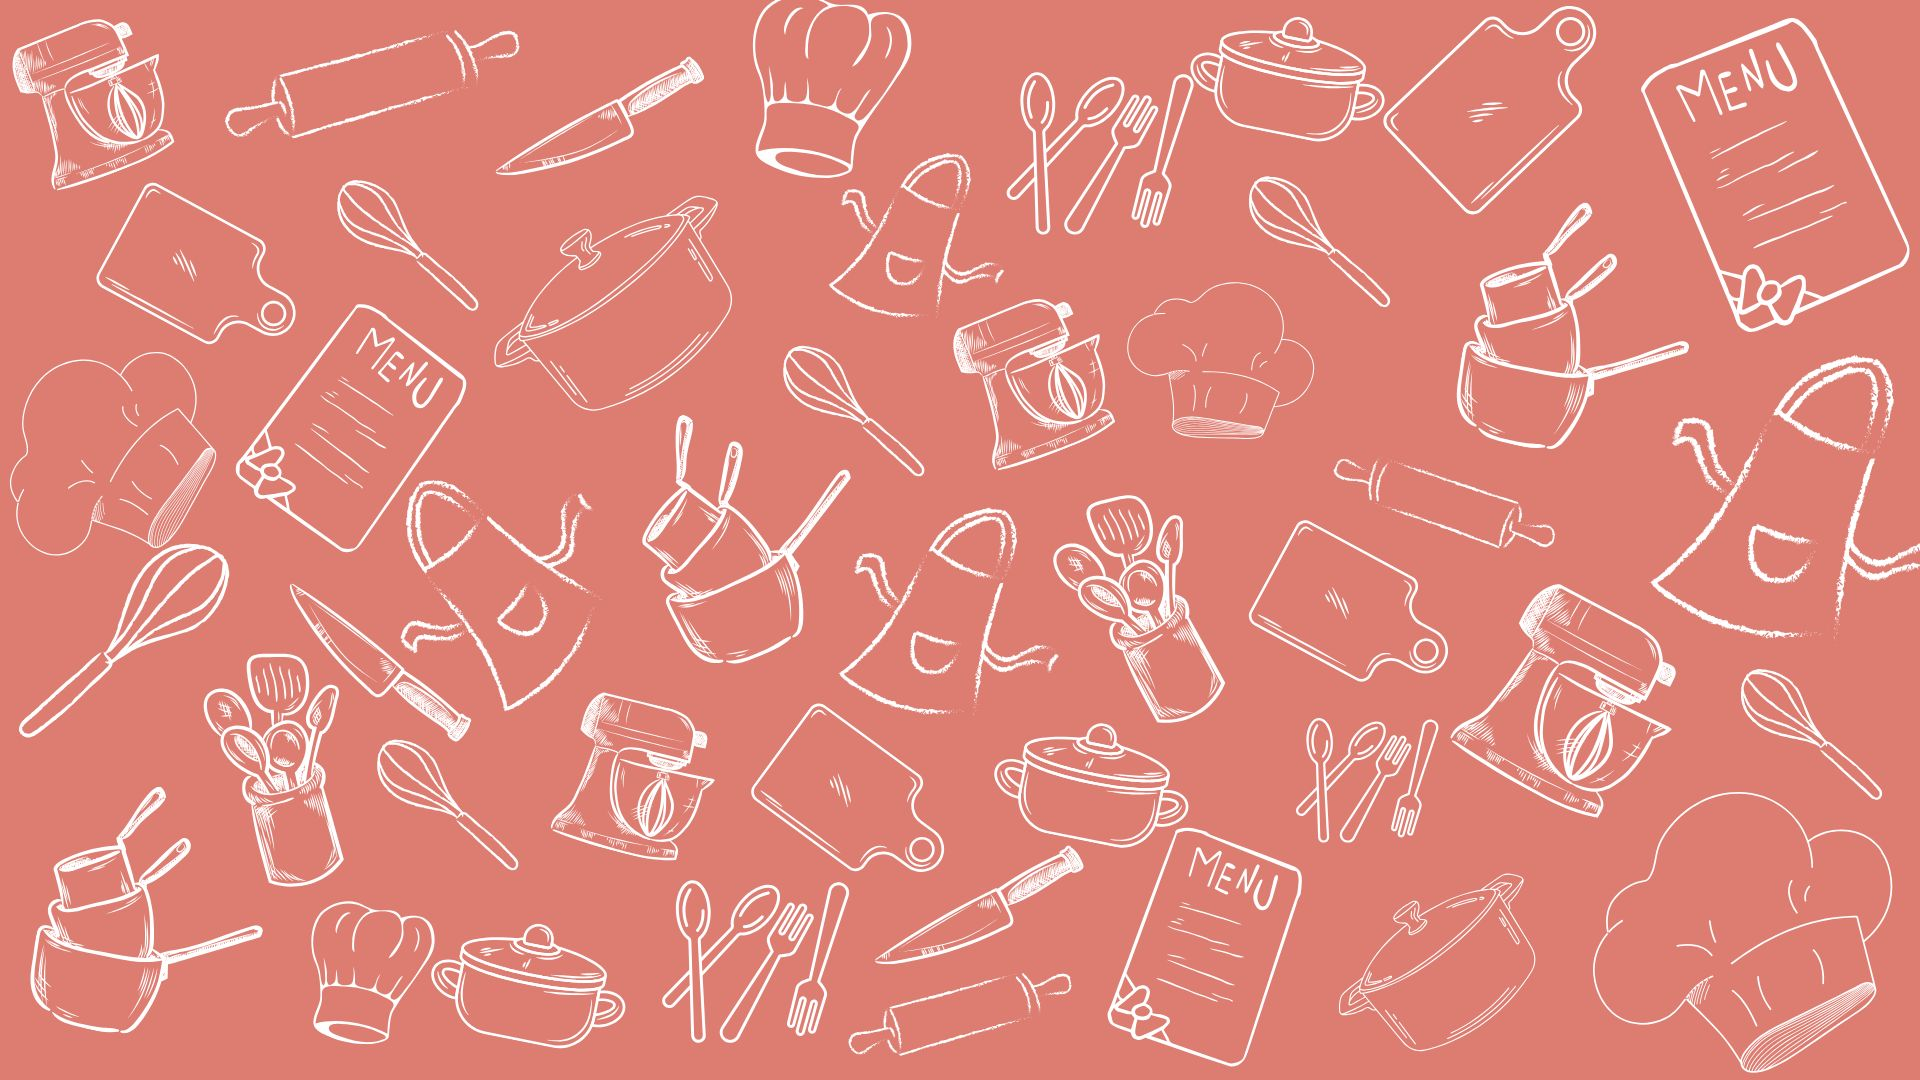
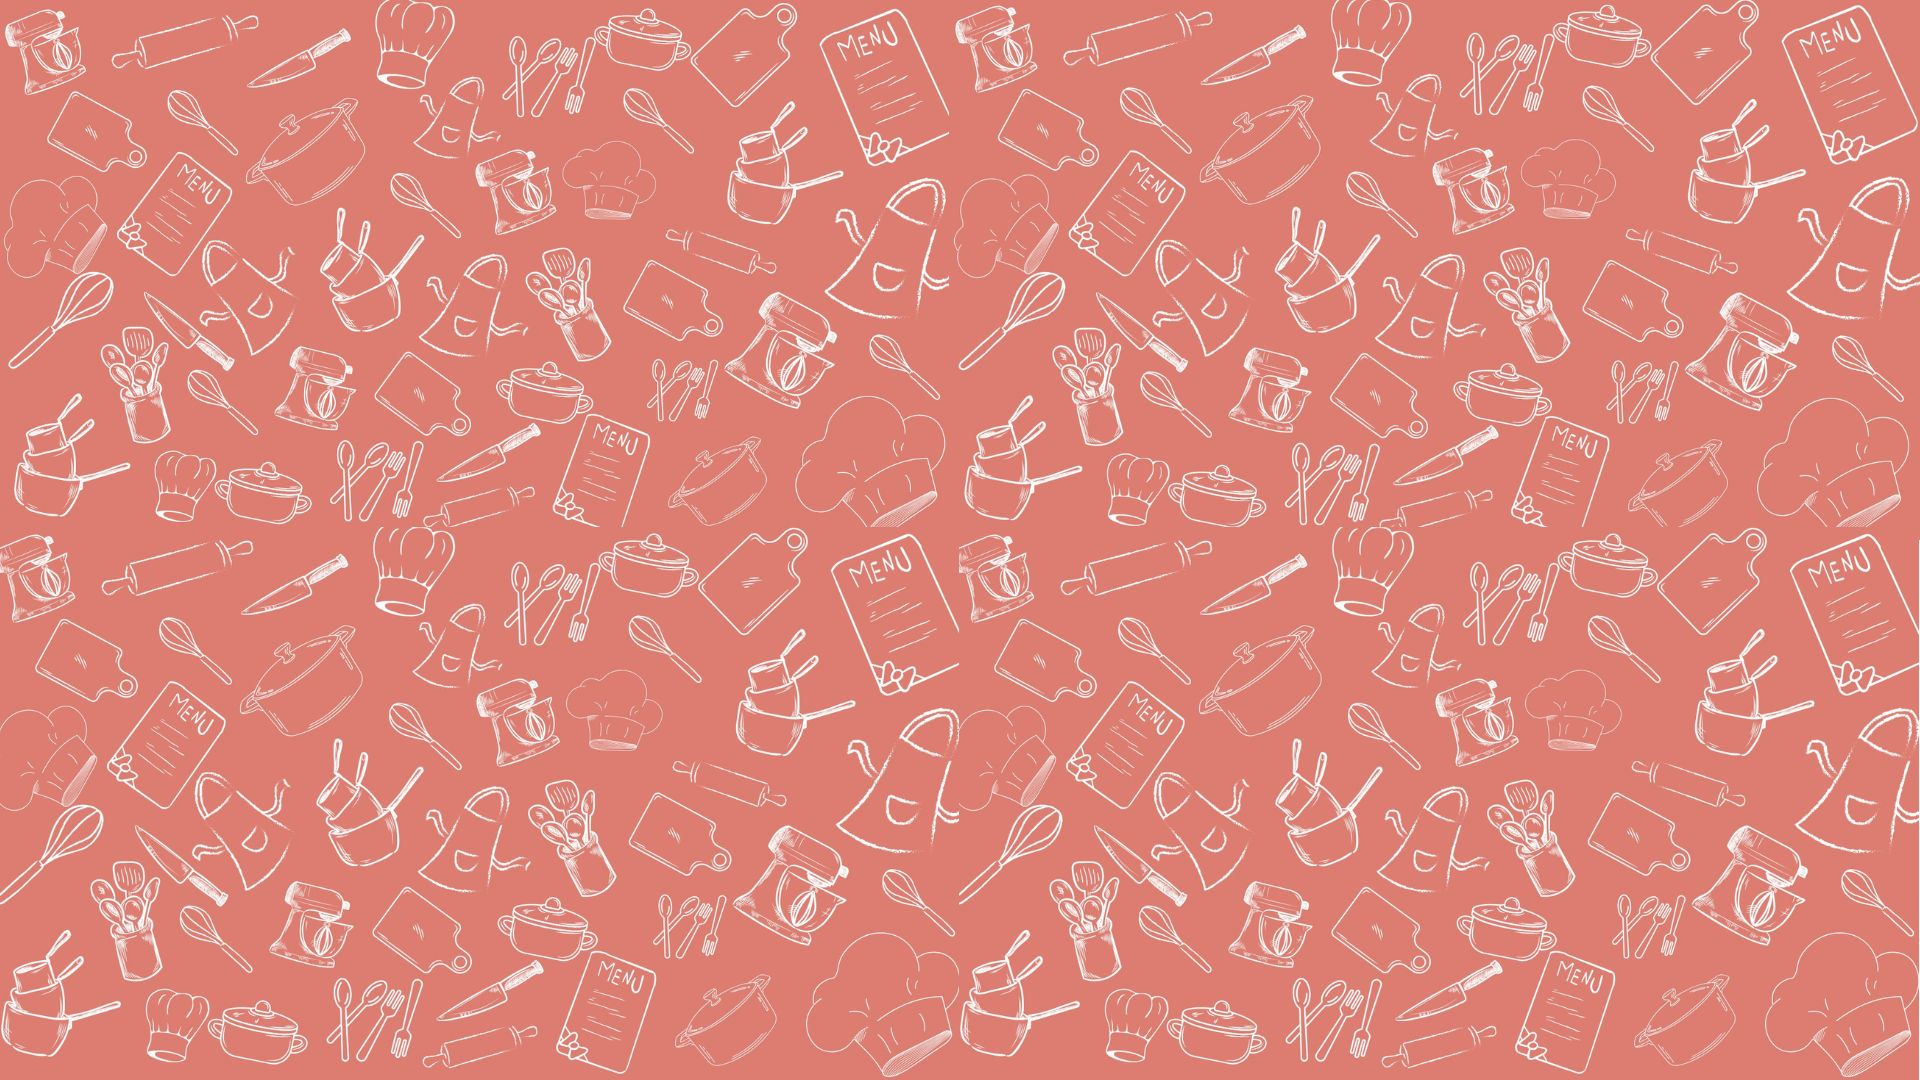
adicionei o fundo

Changed region(s): [[0.0, 0.0, 1.0, 1.0], [0.5938, 0.0, 0.625, 0.0306], [0.0938, 0.0, 0.125, 0.0306]]

diff --git a/login/sty.css b/login/sty.css
@@ -13,6 +13,8 @@ body {
     justify-content: center;
     align-items: center;
     min-height: 100vh;
+    background-image: url('../images/fundo.jpg');
+    
 }
 
 